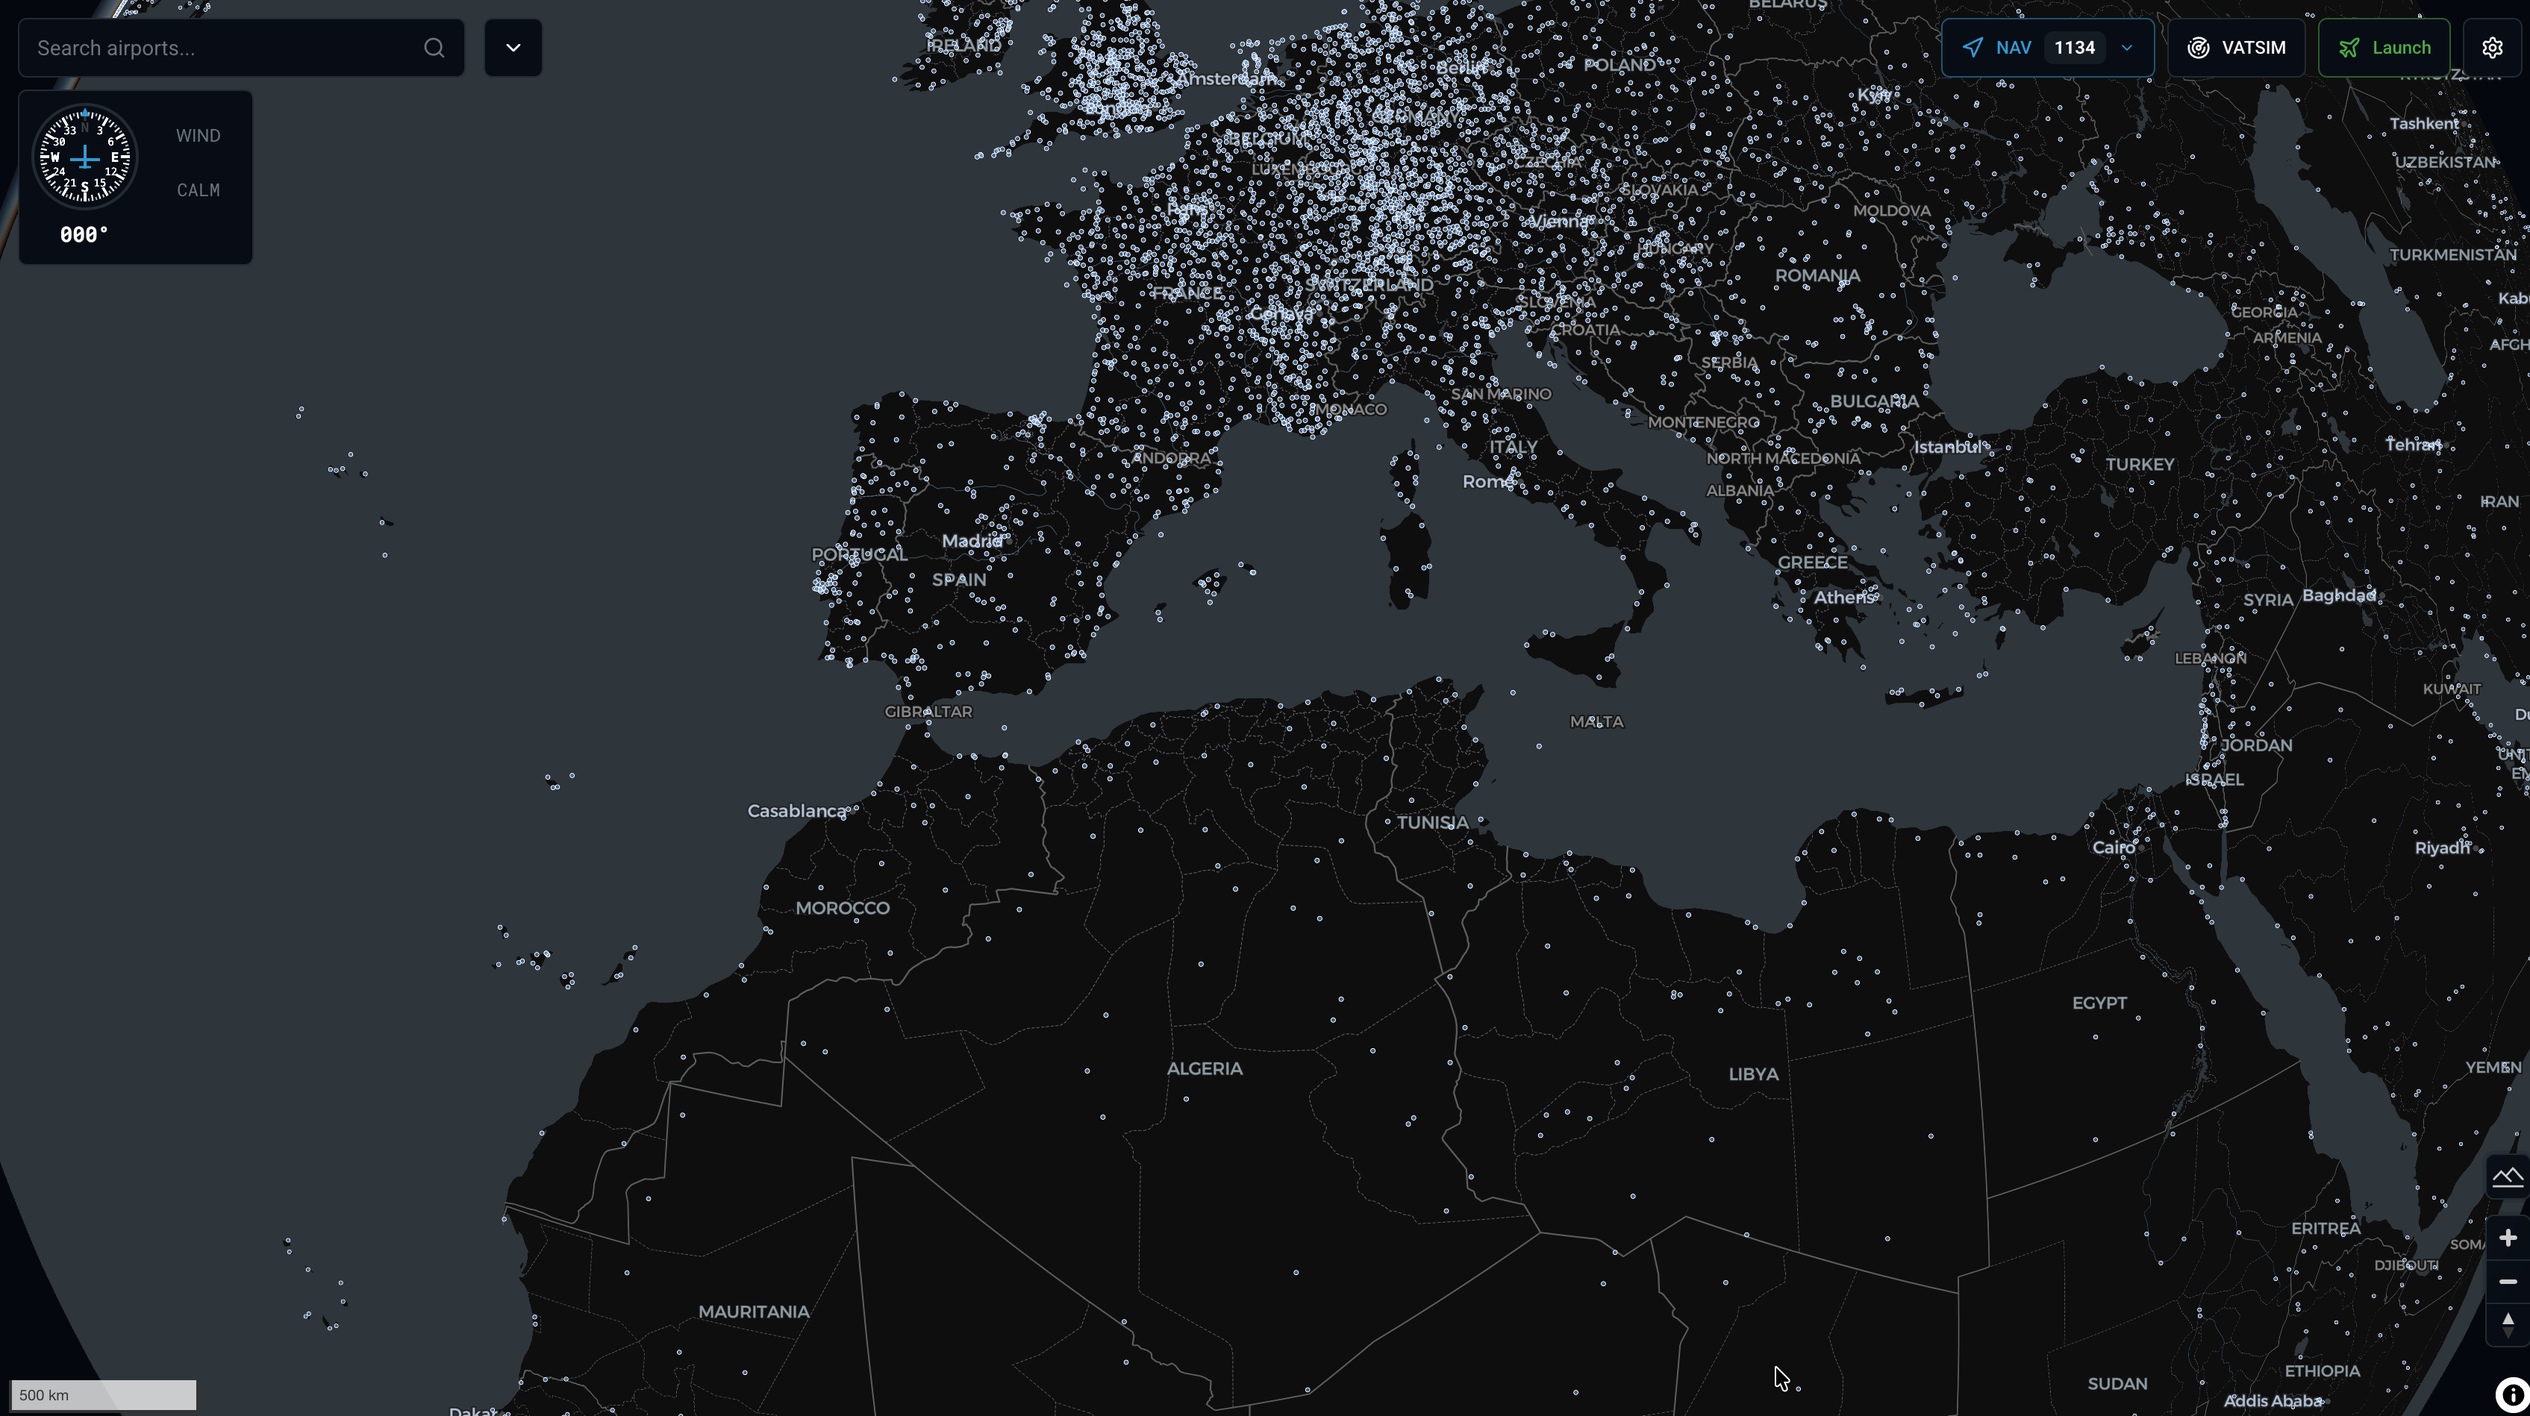
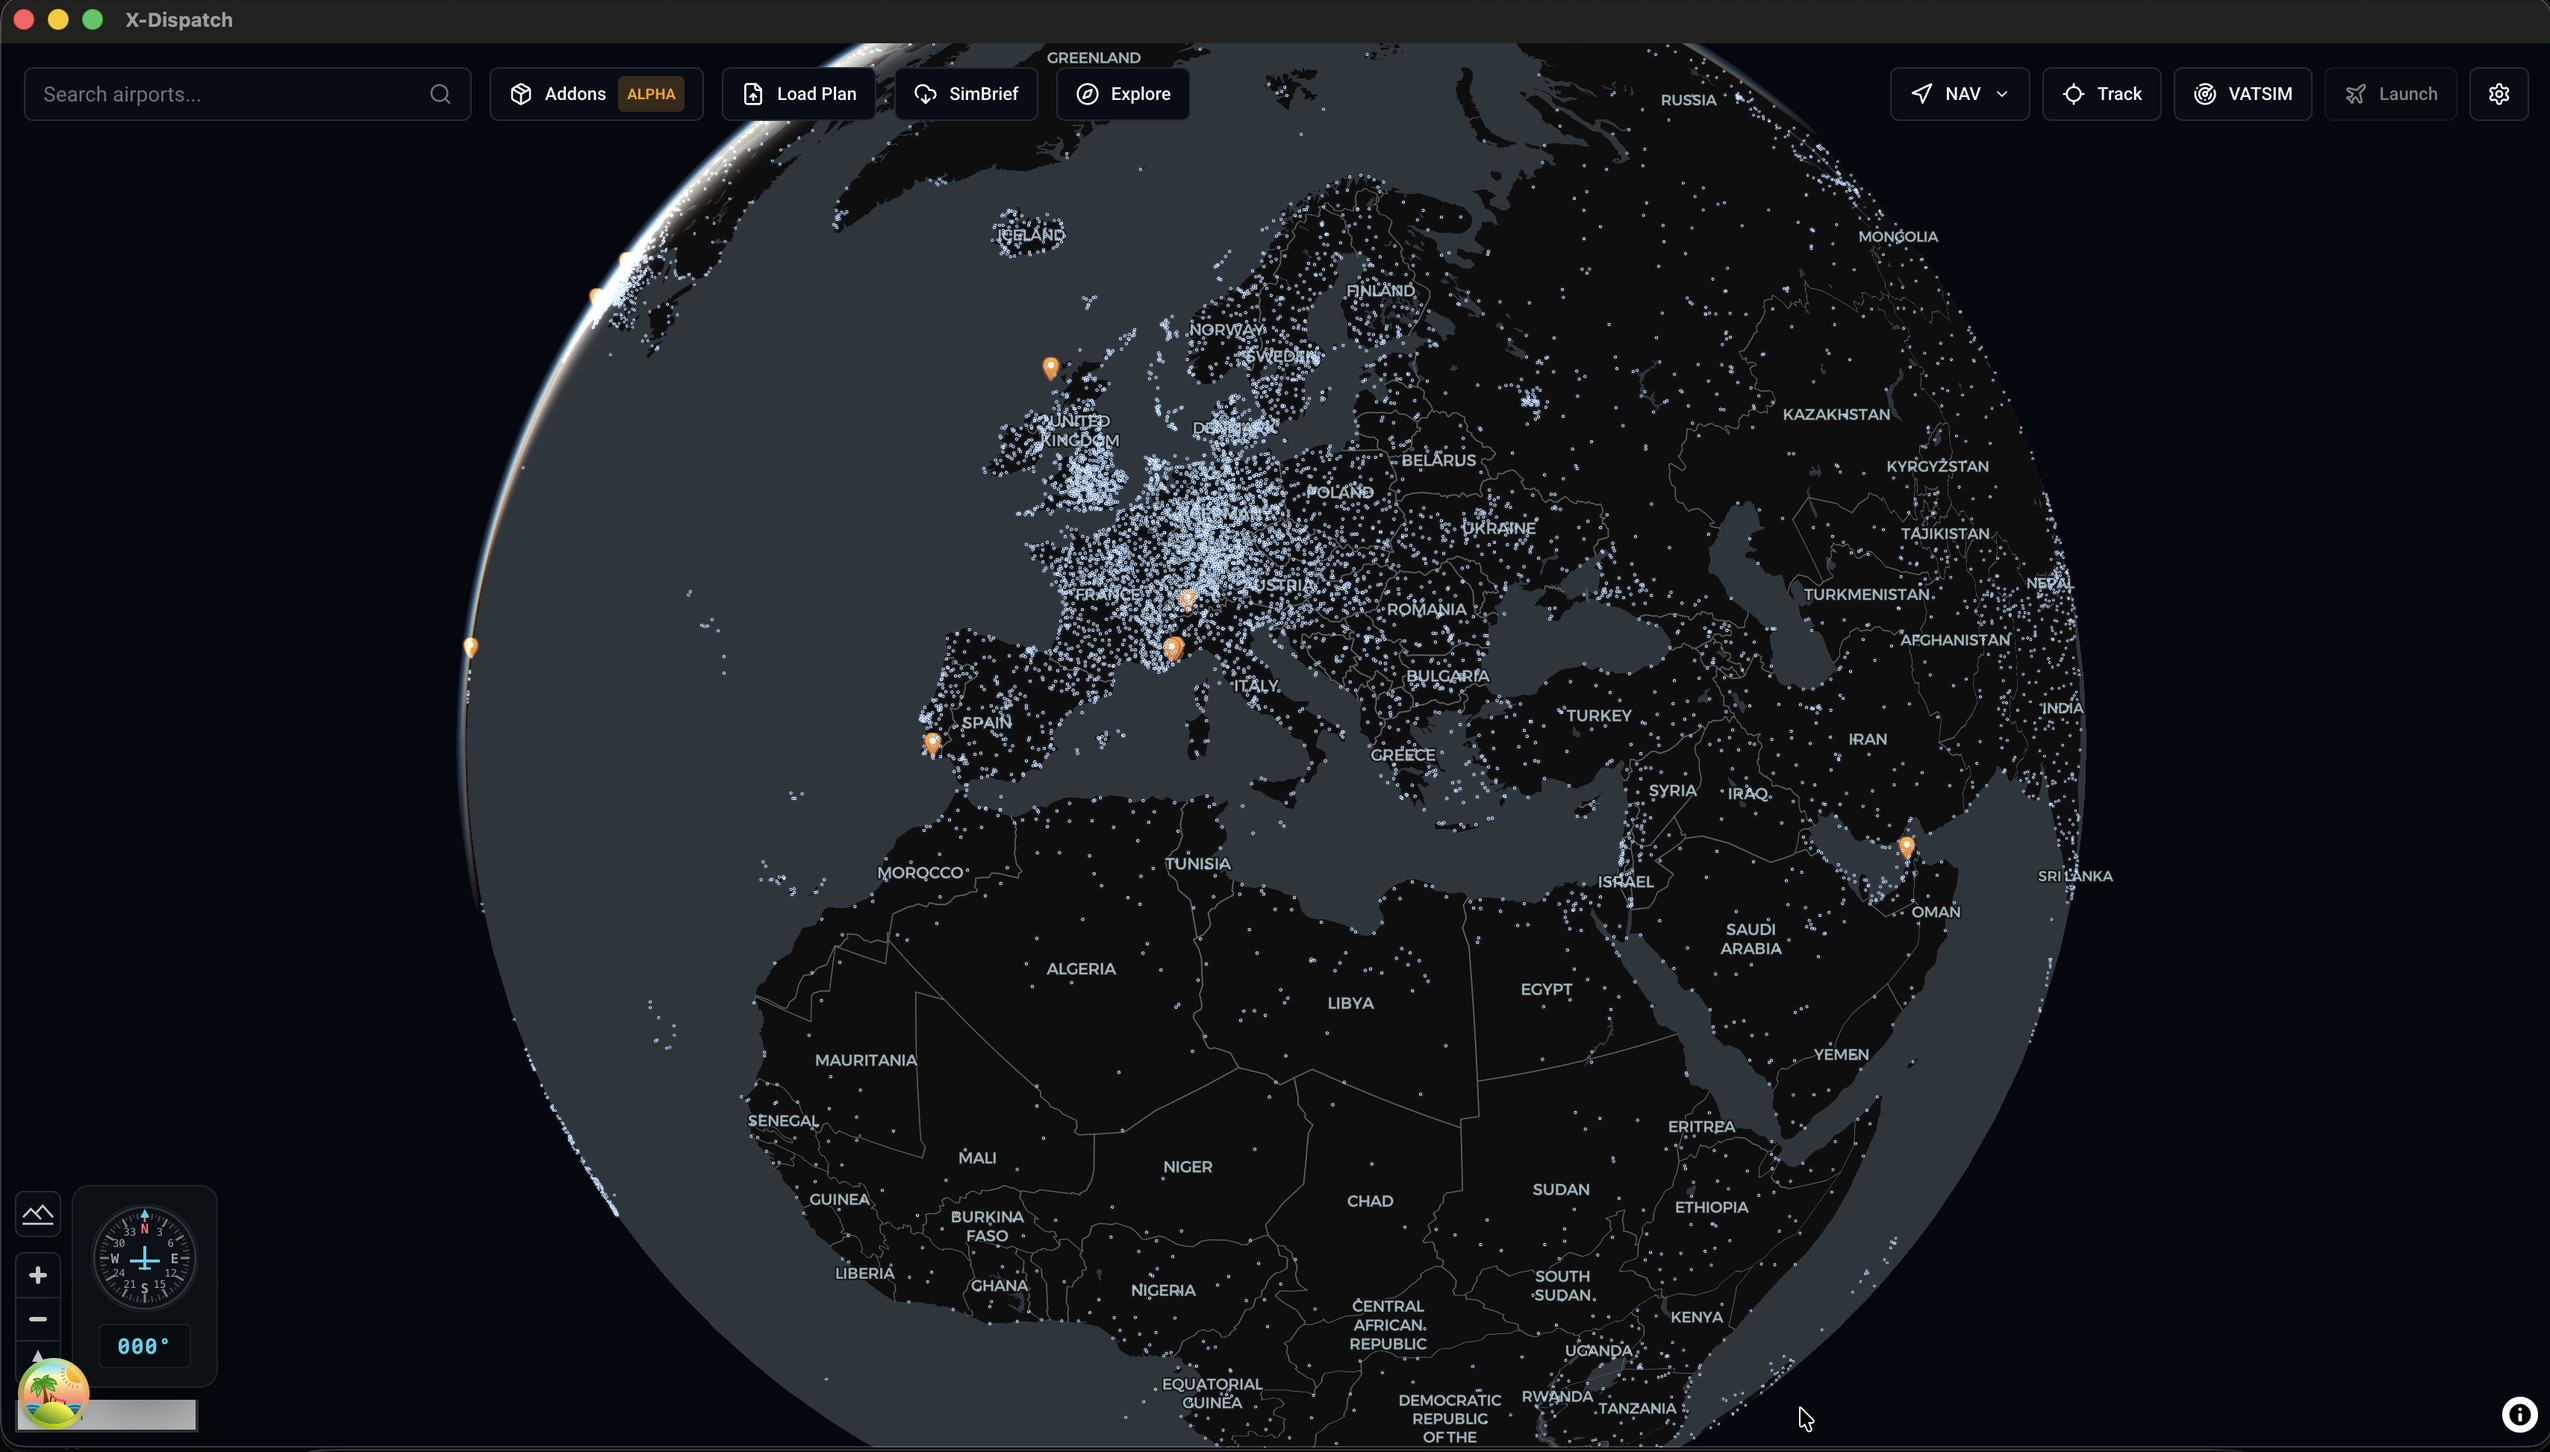
docs: update README with SimBrief and Addon Manager features

diff --git a/README.md b/README.md
@@ -5,7 +5,7 @@
 <h1 align="center">X-Dispatch</h1>
 
 <p align="center">
-  Interactive airport map and flight launcher for X-Plane 12
+  Flight dispatch, airport visualization, and addon management for X-Plane 12
 </p>
 
 <p align="center">
@@ -46,11 +46,29 @@
 
 ![Map Overview](screenshots/map-overview.png)
 
-X-Plane shows airport diagrams but has no global map to explore and discover airports. You need to already know the ICAO code to load an airport. This app gives you a world map to browse, search, and explore all airports visually.
+X-Plane has detailed airport diagrams but no global map to explore them. You need to already know the ICAO code to load an airport. I always wanted a world map to browse, search, and discover airports visually — so I built this.
 
-Click on any airport to see detailed maps with runways, taxiways, gates, and markings. Select a start position, configure your flight, and launch X-Plane directly.
+Click any airport to see detailed diagrams with runways, taxiways, gates, and markings. Import your flight plan from SimBrief. Select a starting position, configure your flight, and launch X-Plane directly.
+
+The app has grown to include SimBrief integration, live flight tracking, SID/STAR visualization, and an addon manager to keep your aircraft and scenery organized.
 
 ## Screenshots
+
+<details>
+<summary>SimBrief Integration</summary>
+
+![SimBrief Import](screenshots/simbrief-1.png)
+![SimBrief Flight Info](screenshots/simbrief-2.png)
+
+</details>
+
+<details>
+<summary>Addon Manager</summary>
+
+![Addon Browser](screenshots/addon-manager-1.png)
+![Addon Details](screenshots/addon-manager-2.png)
+
+</details>
 
 <details>
 <summary>Airport Detail View</summary>
@@ -74,13 +92,6 @@ Click on any airport to see detailed maps with runways, taxiways, gates, and mar
 </details>
 
 <details>
-<summary>Settings</summary>
-
-![Settings](screenshots/settings.png)
-
-</details>
-
-<details>
 <summary>Live Flight Tracking</summary>
 
 ![Flight Tracking](screenshots/flight-tracking.png)
@@ -94,7 +105,31 @@ Click on any airport to see detailed maps with runways, taxiways, gates, and mar
 
 </details>
 
+<details>
+<summary>Settings</summary>
+
+![Settings](screenshots/settings.png)
+
+</details>
+
 ## Features
+
+### SimBrief Integration
+
+- Import your latest OFP with one click
+- Full route visualization on the map
+- Fuel breakdown: block, taxi, enroute, reserves, contingency
+- Weight summary: ZFW, TOW, landing weight
+- Flight times and distance
+- Aircraft and callsign info
+
+### Addon Manager
+
+- Browse aircraft and scenery from trusted sources
+- One-click install and update
+- Track installed addons and available updates
+- Automatic extraction to correct X-Plane folders
+- Support for ZIP, RAR, and 7z archives
 
 ### Airport Visualization
 
@@ -161,11 +196,15 @@ Click on any airport to see detailed maps with runways, taxiways, gates, and mar
 ## How It Works
 
 1. Point the app to your X-Plane installation
-2. It parses X-Plane's data files (apt.dat, nav data, CIFP procedures) and caches them in SQLite
+2. The app parses X-Plane's data files (apt.dat, nav data, CIFP procedures) and caches them
 3. Browse the world map and click any airport
-4. The airport renders with full geometry from apt.dat
+4. Import your flight plan from SimBrief or load an FMS file
 5. Select a gate or runway, pick your aircraft, configure the flight
-6. The app writes a `Freeflight.prf` file and launches X-Plane with your configuration
+6. Launch X-Plane — or if it's already running, relocate mid-flight
+
+Once flying, connect to X-Plane's WebSocket API to track your aircraft live on the map with speed, altitude, heading, and vertical speed indicators.
+
+For addons, browse the catalog, click install, and the app handles downloading and extracting to the correct folder.
 
 ## Development
 
